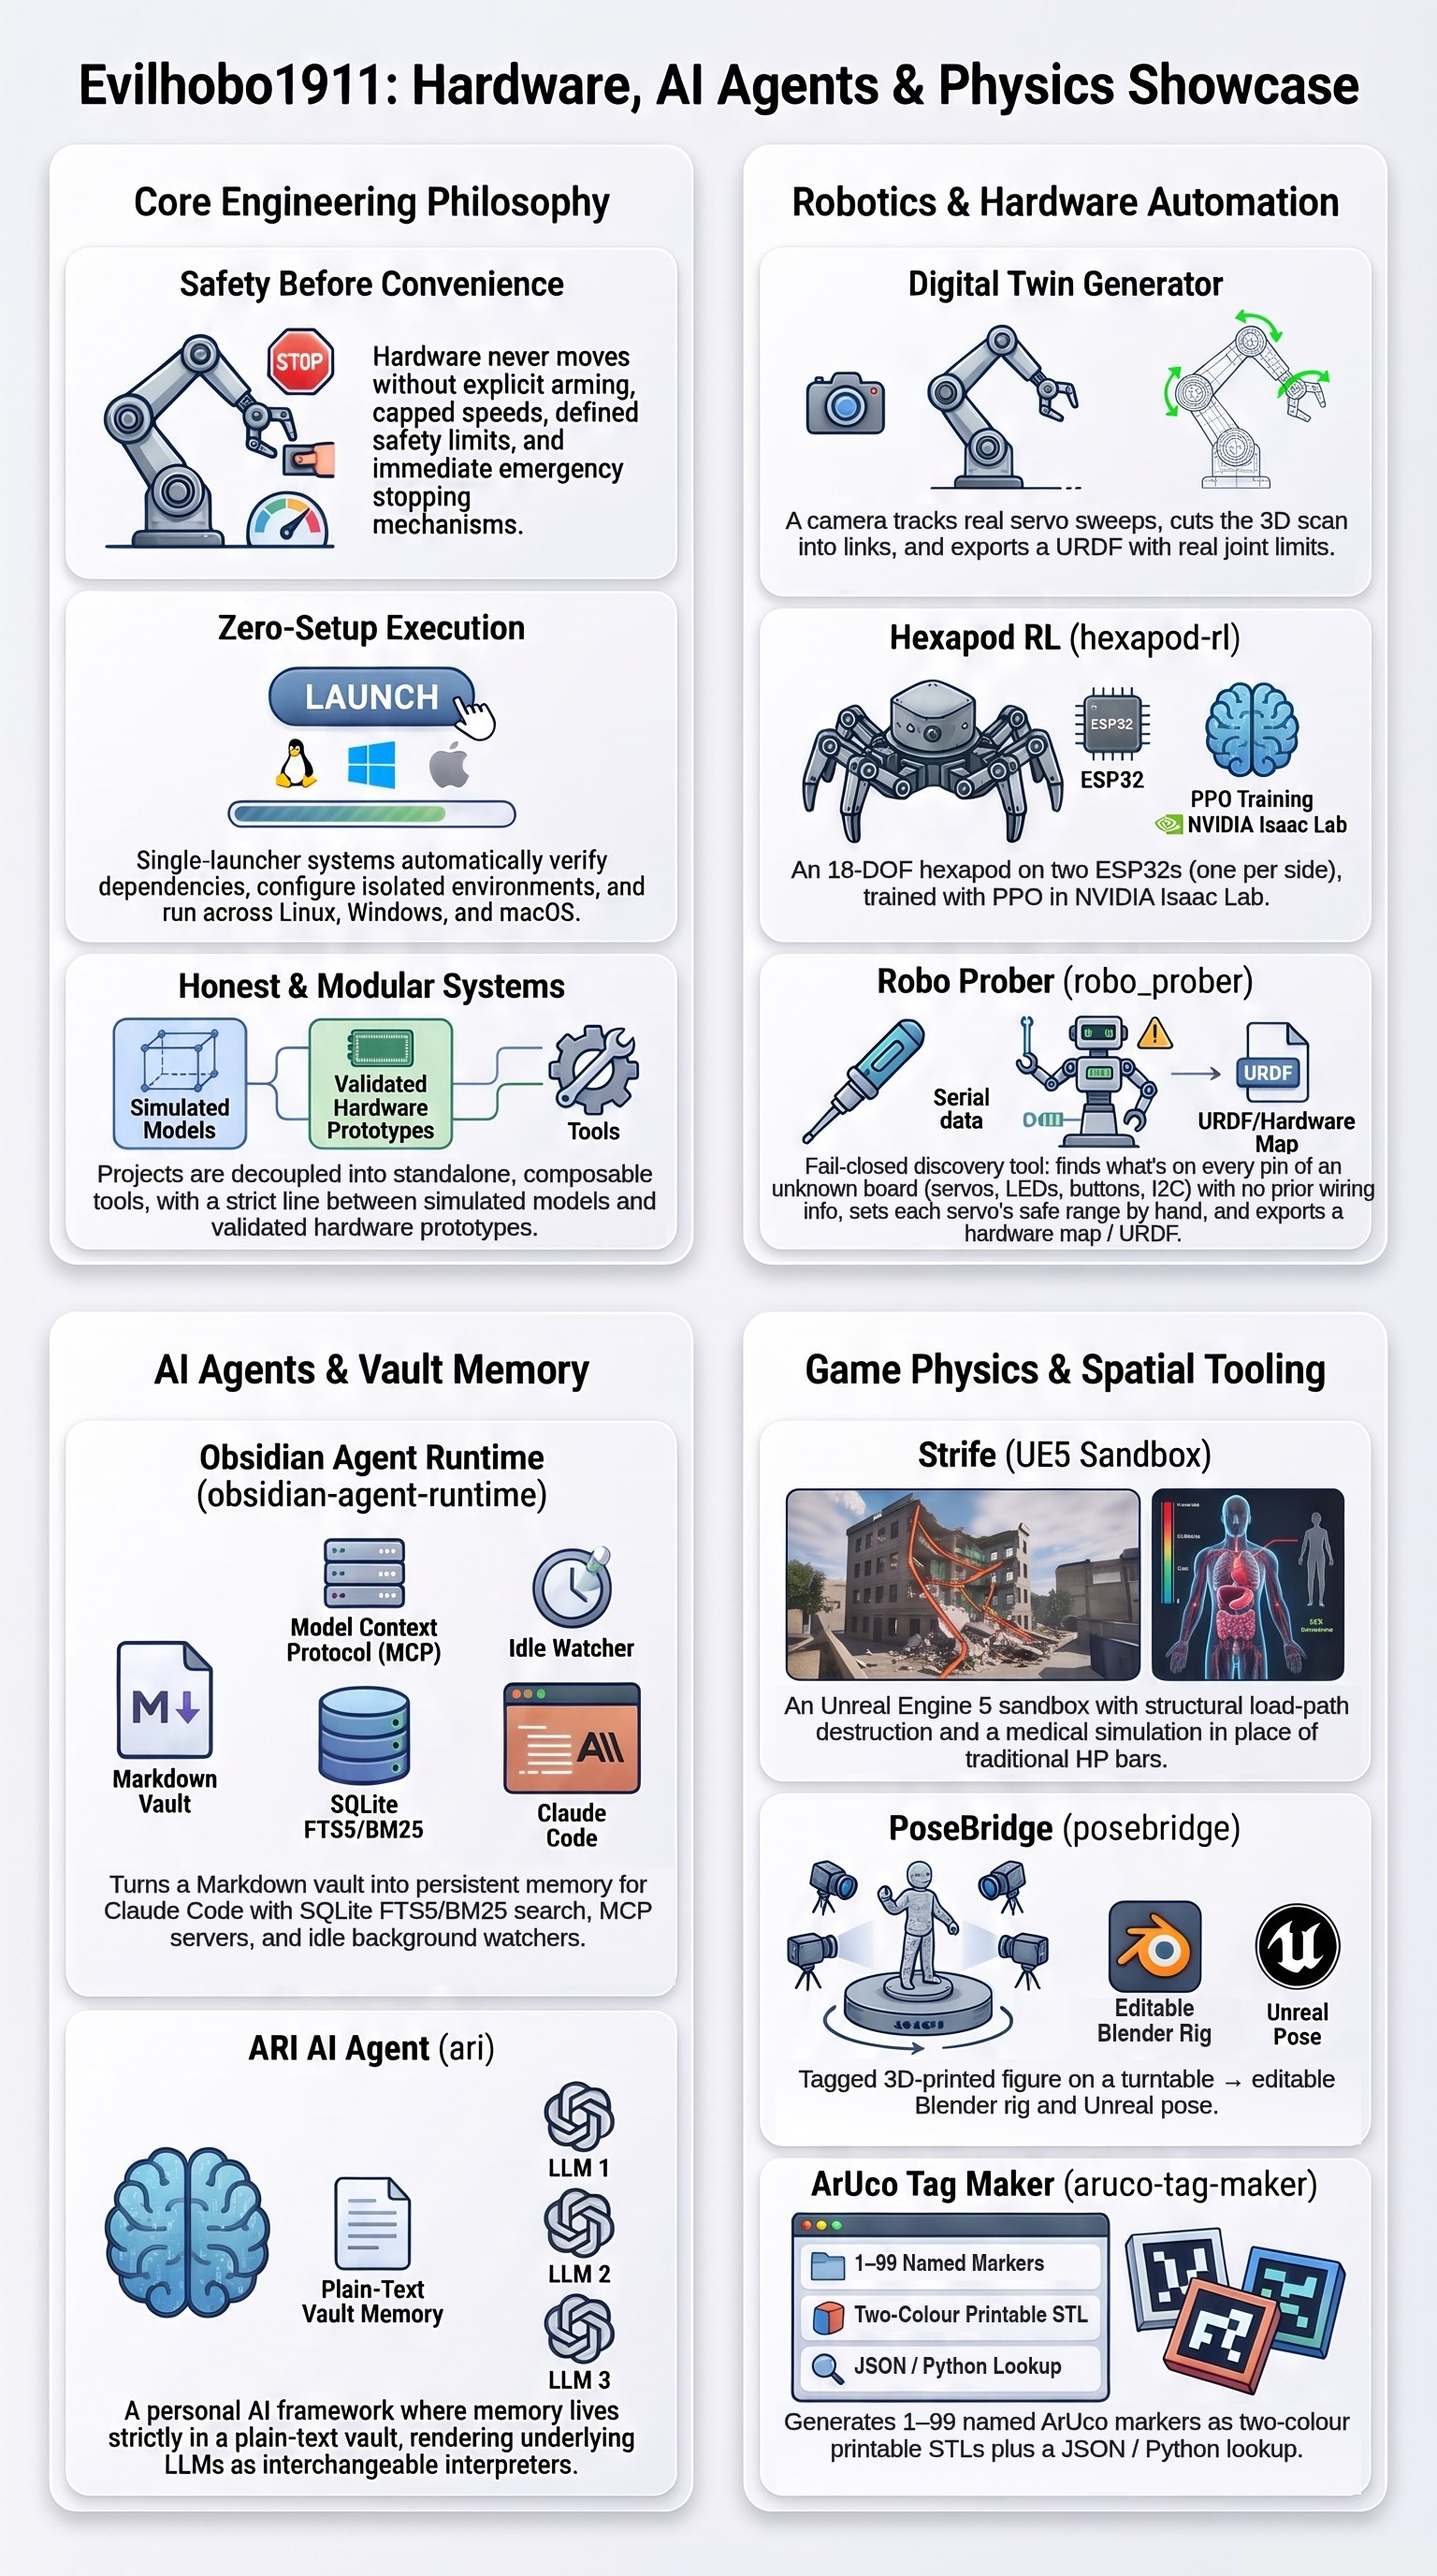
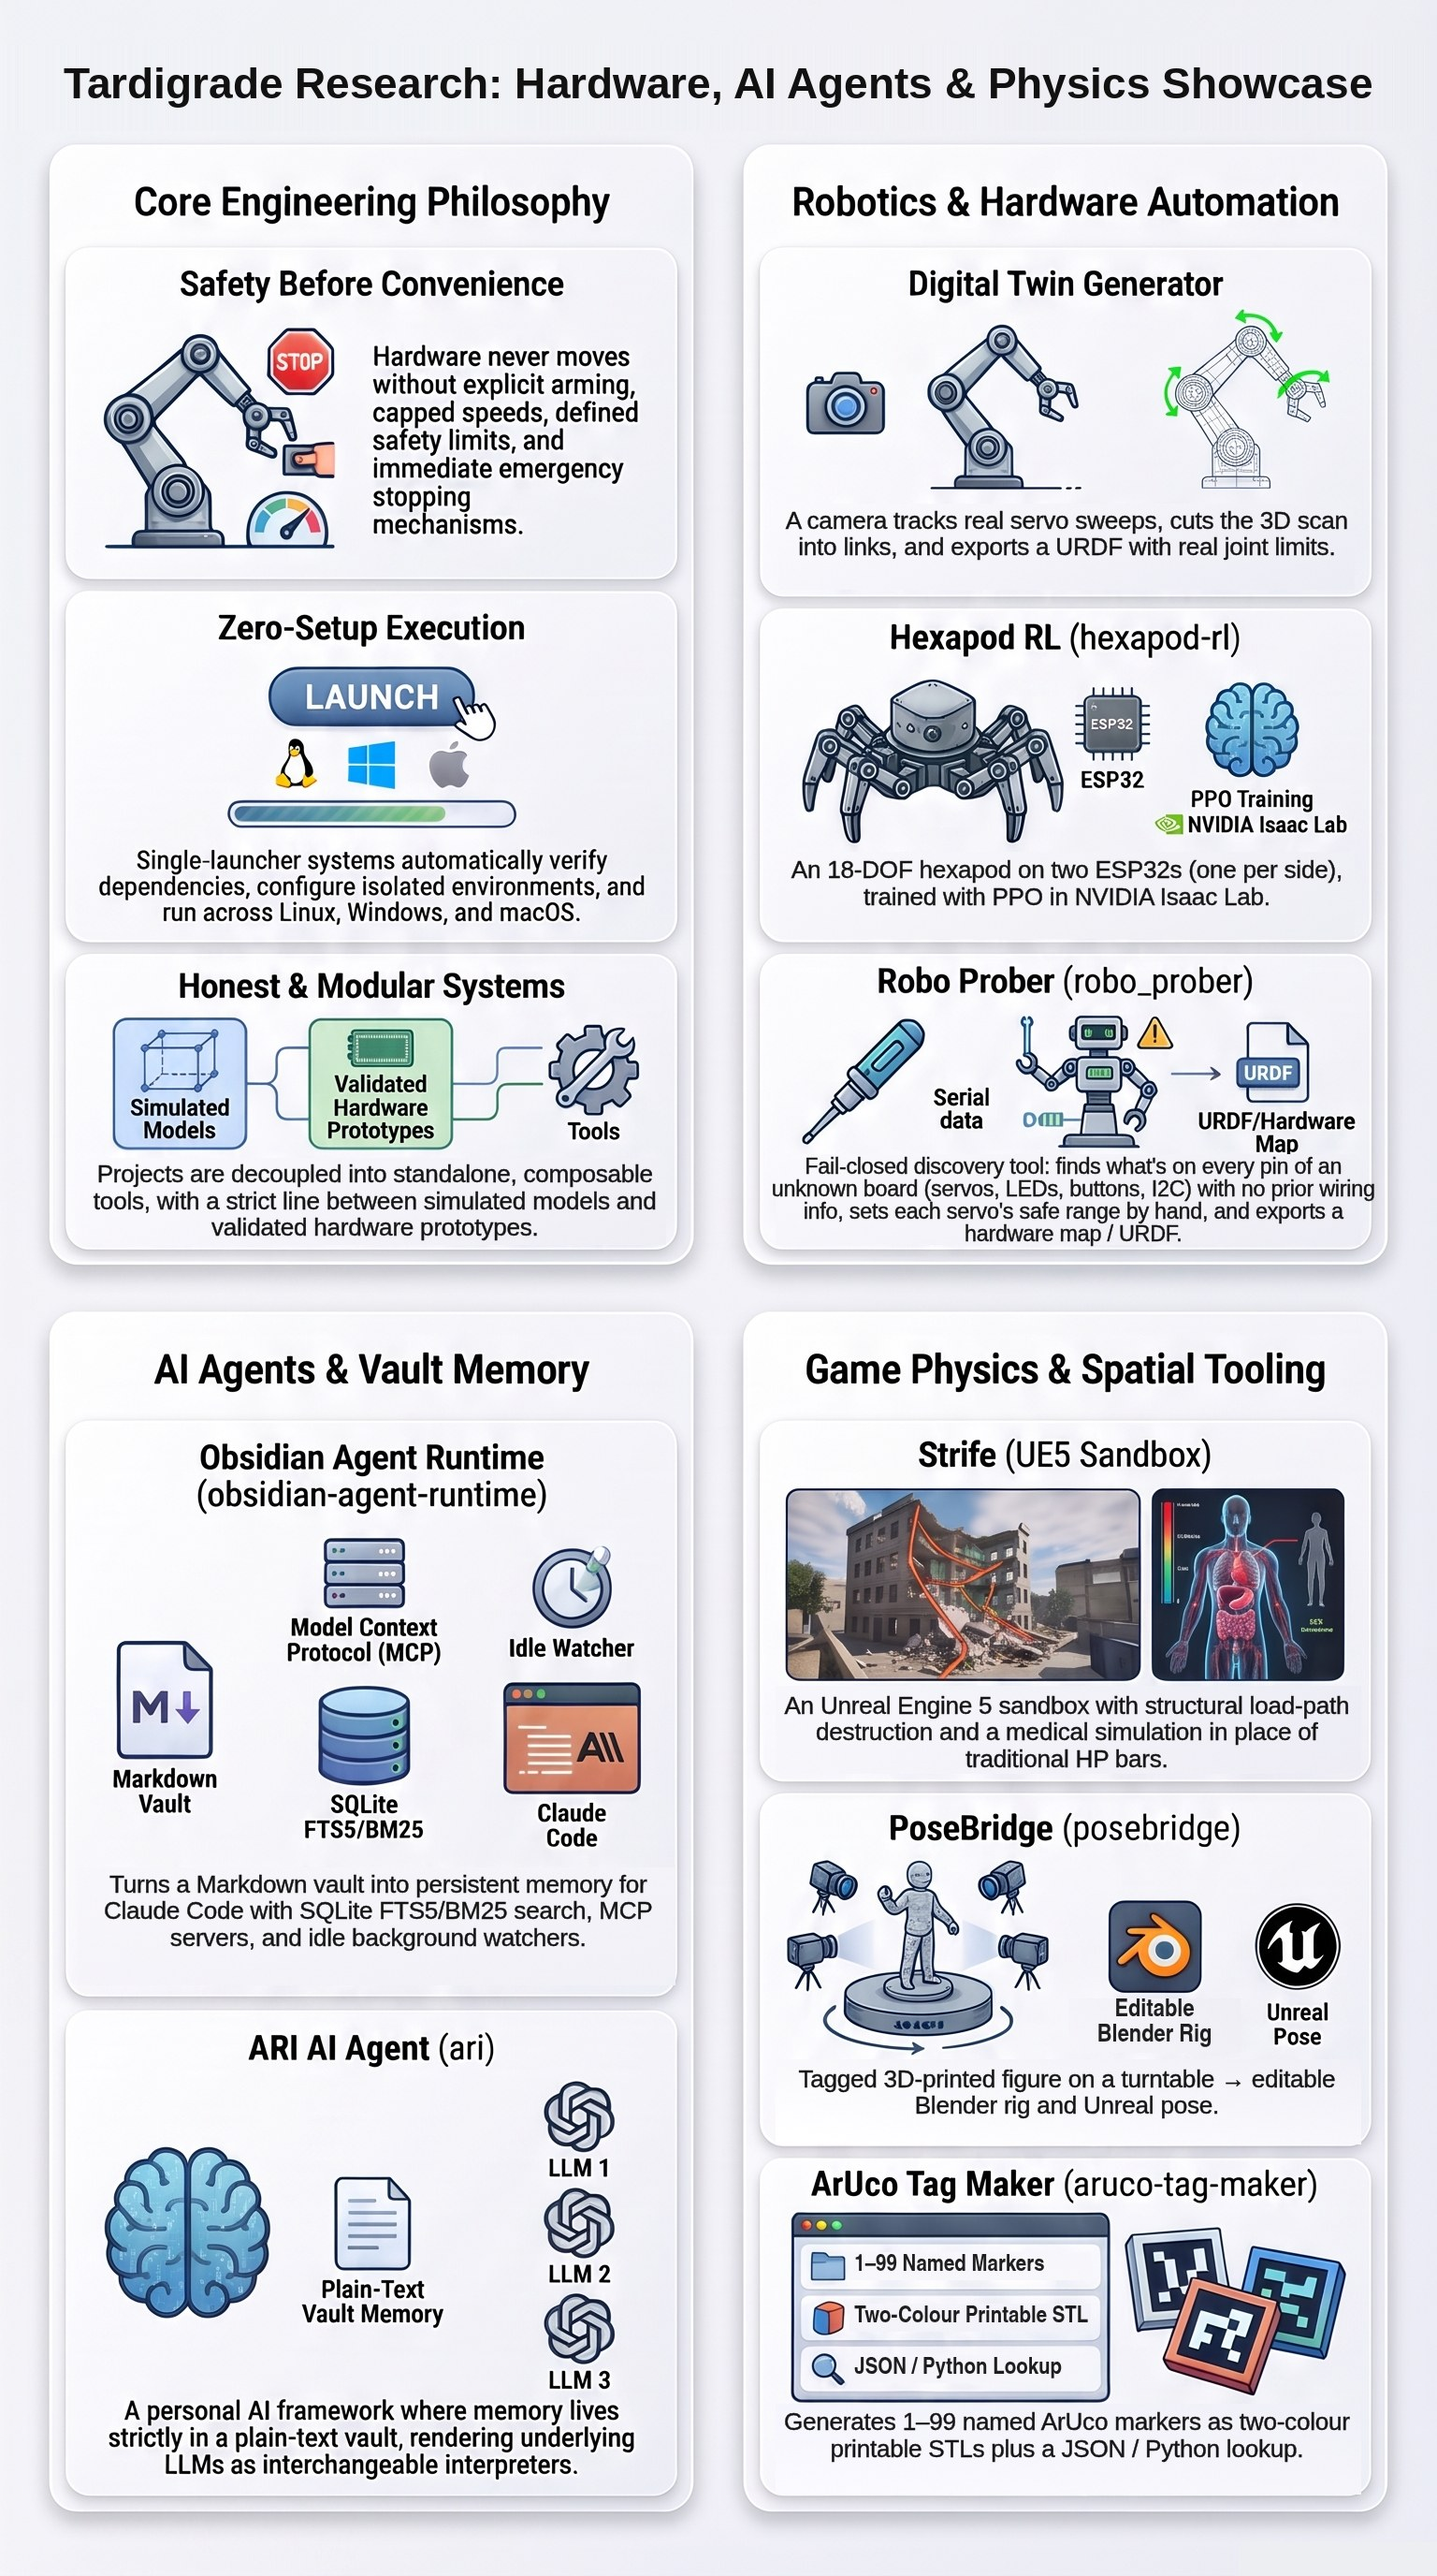
Account renamed to tardigraderesearch

Changed region(s): [[0.0625, 0.0, 0.9375, 0.0625]]

diff --git a/README.md b/README.md
@@ -9,27 +9,27 @@ I learn a stack by shipping something in it, and I measure before I claim.
 
 - **Digital Twin Generator** — built robot in, verified simulation-ready model out. A camera
   watches each servo wiggle and sweep its range, then the tool cuts the 3D scan into links and
-  exports a URDF with real joint limits. Showcase: [digital-twin-generator](https://github.com/evilhobo1911/digital-twin-generator).
+  exports a URDF with real joint limits. Showcase: [digital-twin-generator](https://github.com/tardigraderesearch/digital-twin-generator).
 - **Strife** — a UE5 sandbox where buildings fail along real load paths and
   injuries run on a medical simulation instead of HP bars. Source private;
   preview: [strife](strife/README.md).
 - **PoseBridge** — pose a tagged, 3D-printed figure on a turntable and get an
-  editable Blender rig and an Unreal pose. Showcase: [posebridge](https://github.com/evilhobo1911/posebridge).
+  editable Blender rig and an Unreal pose. Showcase: [posebridge](https://github.com/tardigraderesearch/posebridge).
 - **ARI** — a personal AI whose memory lives in a plain-text vault, so the model
-  underneath is replaceable. Showcase: [ari](https://github.com/evilhobo1911/ari).
+  underneath is replaceable. Showcase: [ari](https://github.com/tardigraderesearch/ari).
 
 ### Open source
 
 | Repo | What it does | Stack |
 |---|---|---|
-| [obsidian-agent-runtime](https://github.com/evilhobo1911/obsidian-agent-runtime) | Persistent, searchable vault memory for Claude Code | Python, MCP, SQLite FTS5 |
-| [hexapod-rl](https://github.com/evilhobo1911/hexapod-rl) | 18-DOF hexapod trained in simulation | Isaac Lab, PPO, ESP32 |
-| [robo_prober](https://github.com/evilhobo1911/robo_prober) | Map an unknown servo robot; safe firmware and range-of-motion tool | Python, C++, ESP32 |
-| [aruco-tag-maker](https://github.com/evilhobo1911/aruco-tag-maker) | Named ArUco tags as printable STLs plus a lookup file | Python, OpenCV, tkinter |
+| [obsidian-agent-runtime](https://github.com/tardigraderesearch/obsidian-agent-runtime) | Persistent, searchable vault memory for Claude Code | Python, MCP, SQLite FTS5 |
+| [hexapod-rl](https://github.com/tardigraderesearch/hexapod-rl) | 18-DOF hexapod trained in simulation | Isaac Lab, PPO, ESP32 |
+| [robo_prober](https://github.com/tardigraderesearch/robo_prober) | Map an unknown servo robot; safe firmware and range-of-motion tool | Python, C++, ESP32 |
+| [aruco-tag-maker](https://github.com/tardigraderesearch/aruco-tag-maker) | Named ArUco tags as printable STLs plus a lookup file | Python, OpenCV, tkinter |
 
 ### Hardware
 
-Robots, motors and the physical side of things: [builds](https://github.com/evilhobo1911/builds).
+Robots, motors and the physical side of things: [builds](https://github.com/tardigraderesearch/builds).
 
 ### How I work
 
